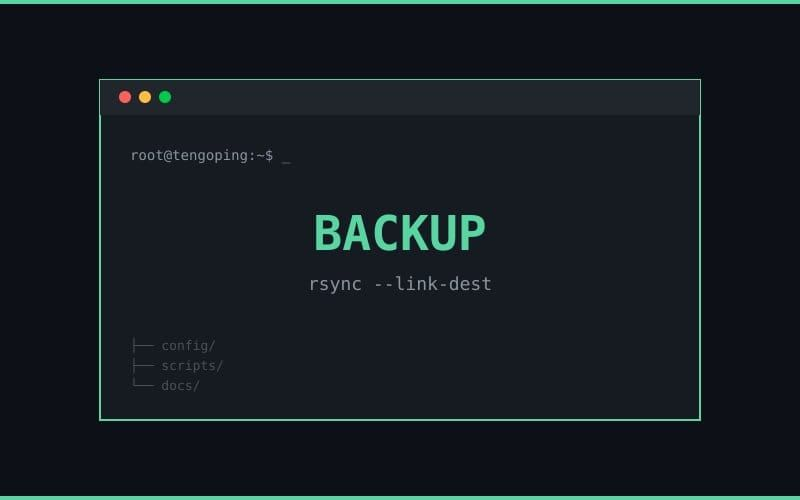
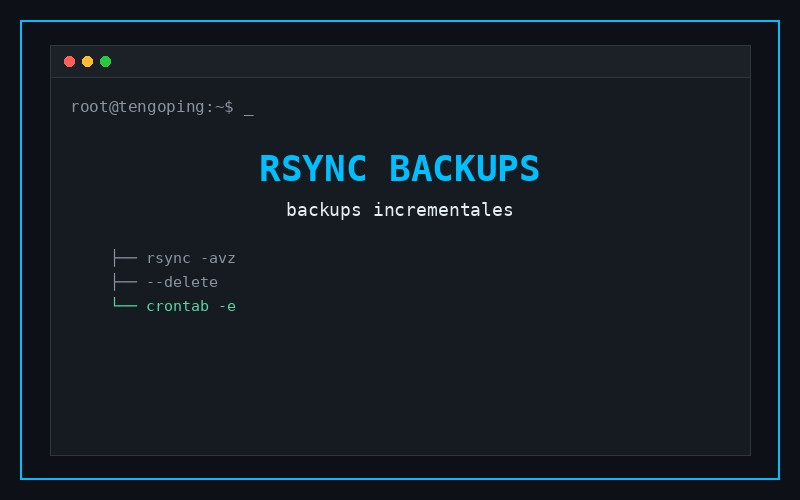
Reemplazar fotos stock por imágenes terminal en los 20 artículos originales
Regenera las imágenes de portada con el mismo estilo terminal que los
artículos nuevos. Actualiza el script con las 20 entradas del catálogo.

diff --git a/scripts/generate-images.py b/scripts/generate-images.py
@@ -51,6 +51,50 @@ CAT_COLORS = {
 # (filename, title, subtitle, category, [tree_items])
 
 ARTICLES = [
+    # Automatización
+    ("auto-bash.jpg", "BASH SCRIPTS", "10 scripts útiles para sysadmin", "Automatización",
+     ["├── disk-usage.sh", "├── log-rotate.sh", "└── backup.sh"]),
+    ("auto-ansible.jpg", "ANSIBLE", "automatizar servidores", "Automatización",
+     ["├── inventory.ini", "├── playbook.yml", "└── roles/"]),
+    ("auto-backup.jpg", "RSYNC BACKUPS", "backups incrementales", "Automatización",
+     ["├── rsync -avz", "├── --delete", "└── crontab -e"]),
+    ("auto-cron.jpg", "CRON vs TIMERS", "tareas programadas", "Automatización",
+     ["├── /etc/crontab", "├── systemd-timer", "└── OnCalendar="]),
+    ("lvm-storage.jpg", "LVM", "volúmenes lógicos en linux", "Automatización",
+     ["├── pvcreate", "├── vgcreate", "└── lvextend"]),
+    # Linux
+    ("ssh-server.jpg", "SSH SERVER", "configuración segura", "Linux",
+     ["├── sshd_config", "├── authorized_keys", "└── fail2ban"]),
+    ("linux-systemd.jpg", "SYSTEMD", "gestión de servicios", "Linux",
+     ["├── systemctl", "├── journalctl", "└── unit files"]),
+    ("linux-hardening.jpg", "HARDENING", "securing linux servers", "Linux",
+     ["├── config/", "├── scripts/", "└── docs/"]),
+    ("linux-containers.jpg", "PODMAN", "contenedores sin root", "Linux",
+     ["├── podman run", "├── Containerfile", "└── pods/"]),
+    ("linux-monitoring.jpg", "PROMETHEUS", "monitorización con grafana", "Linux",
+     ["├── prometheus.yml", "├── node_exporter", "└── grafana:3000"]),
+    ("linux-permissions.jpg", "PERMISOS", "chmod, chown y acls", "Linux",
+     ["├── chmod 750", "├── chown user:group", "└── setfacl -m"]),
+    # Opinión
+    ("opinion-devops.jpg", "DEVOPS", "cultura en equipos pequeños", "Opinión",
+     ["├── ci-cd/", "├── iac/", "└── monitoring/"]),
+    ("opinion-cloud.jpg", "CLOUD 2025", "tendencias clave", "Opinión",
+     ["├── edge computing", "├── serverless", "└── multi-cloud"]),
+    ("opinion-ia.jpg", "IA & SYSADMIN", "¿oportunidad o amenaza?", "Opinión",
+     ["├── chatops/", "├── aiops/", "└── automation/"]),
+    ("sysadmin-automation.jpg", "AUTOMATIZACIÓN", "por qué aprender en 2025", "Opinión",
+     ["├── ansible/", "├── terraform/", "└── scripts/"]),
+    # Redes
+    ("redes-vlan.jpg", "VLANS", "switches y linux", "Redes",
+     ["├── trunk ports", "├── ip link add", "└── bridge vlan"]),
+    ("redes-firewall.jpg", "FIREWALLD", "seguridad de red", "Redes",
+     ["├── firewall-cmd", "├── nft list", "└── zones/"]),
+    ("network-routes.jpg", "RUTAS ESTÁTICAS", "networkmanager y nmcli", "Redes",
+     ["├── nmcli con mod", "├── ip route add", "└── /etc/sysconfig/"]),
+    ("redes-dns.jpg", "BIND9", "servidor dns autoritativo", "Redes",
+     ["├── named.conf", "├── zone files", "└── rndc reload"]),
+    ("redes-proxy.jpg", "NGINX PROXY", "proxy inverso", "Redes",
+     ["├── proxy_pass", "├── upstream {}", "└── ssl_certificate"]),
     # Virtualización
     ("kvm-libvirt.jpg", "KVM & LIBVIRT", "virtualización en linux", "Virtualización",
      ["├── /etc/libvirt/", "├── qemu-kvm", "└── virt-install"]),
